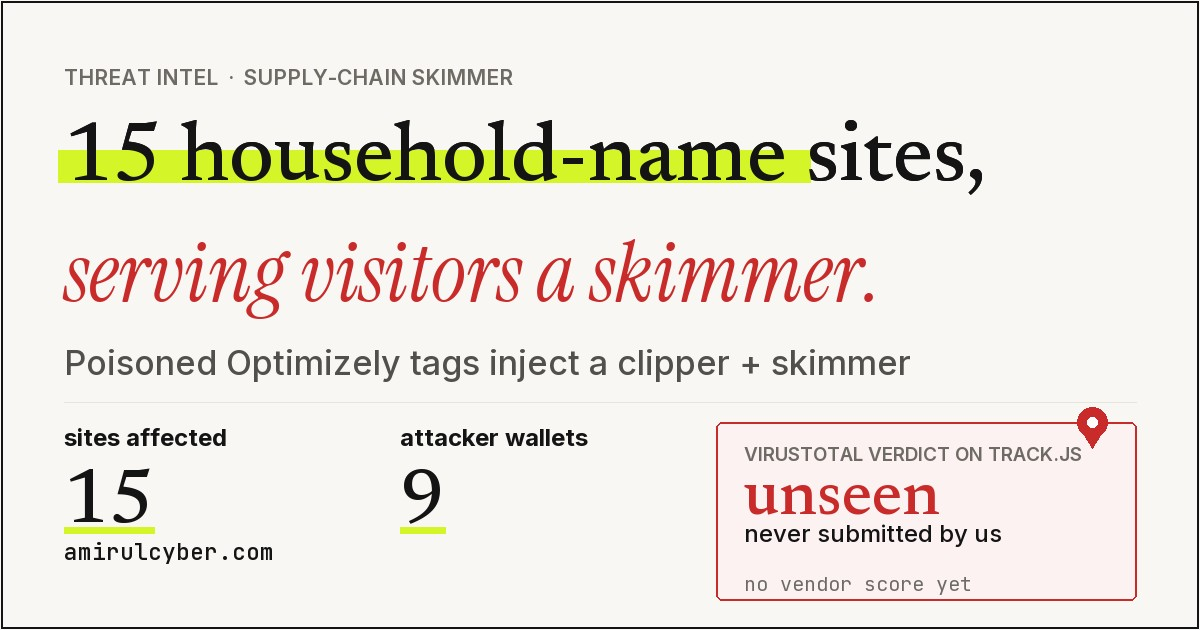
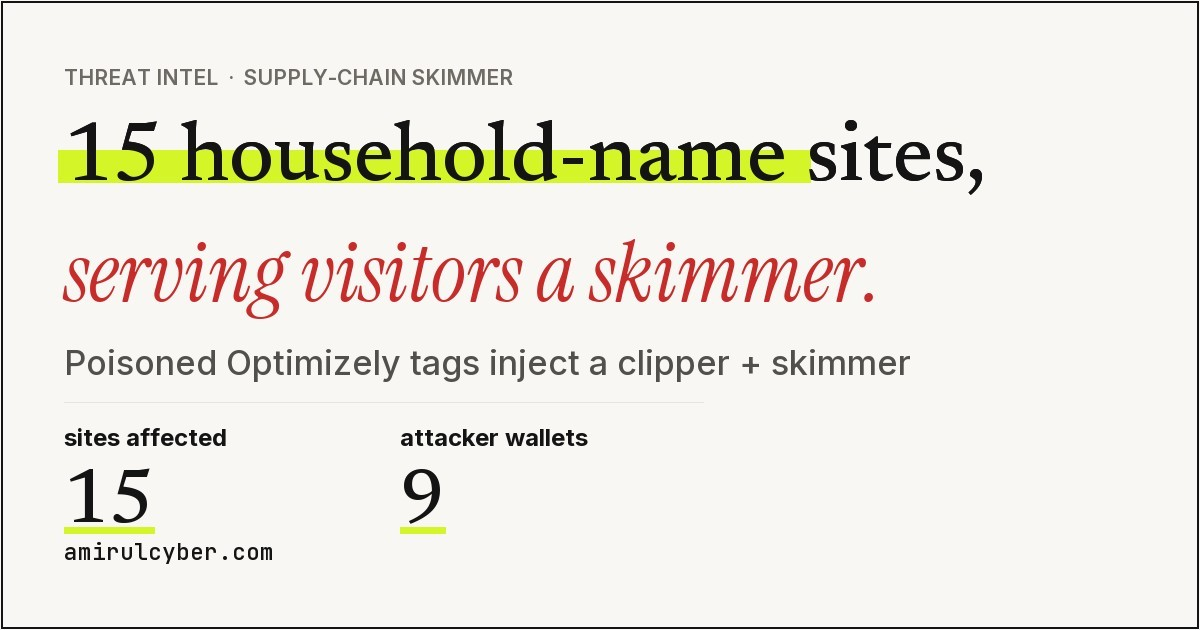
OPTIMJACK post: clickbait filename, hijacker-JS column, VT-free hero card

Changed region(s): [[0.6167, 0.6333, 0.9558, 0.8746], [0.6167, 0.9048, 0.9558, 0.9651]]

diff --git a/_posts/2026-11-16-cnn-zoom-fox-news-crypto-skimmer-optimjack.md b/_posts/2026-11-16-cnn-zoom-fox-news-crypto-skimmer-optimjack.md
@@ -77,25 +77,25 @@ TONr 0:2033556a49942224b486e70fa8beeaeae4265dc4b10adffec2326c002d30397b
 
 15 captured page loads, sorted by traffic. First column is the page domain as observed; second column is the exact page URL that loaded the payload:
 
-| Domain | Exact page URL that loads the payload | Payload URL |
+| Domain | Exact page URL that loads the payload | Hijacker JS URL |
 |---|---|---|
-| edition.cnn.com | `https://edition.cnn.com/` | `https://1688360.cc/track.js` |
-| zoom.com | `https://www.zoom.com/` | `https://1688360.cc/track.js` |
-| foxnews.com | `https://www.foxnews.com/` | `https://1688360.cc/track.js` |
-| bbc.com | `https://www.bbc.com/news/articles/c6wy9lynq4qno` | `https://1688360.cc/track.js` |
-| salesforce.com | `https://www.salesforce.com/` | `https://1688360.cc/track.js` |
-| about.gitlab.com | `https://about.gitlab.com/whats-new/19-0/` | `https://1688360.cc/track.js` |
-| ae.com | `https://www.ae.com/us/en` | `https://1688360.cc/track.js` |
-| hootsuite.com | `https://www.hootsuite.com/error/lost-owly` | `https://1688360.cc/track.js` |
-| smartsheet.com | `https://www.smartsheet.com/` | `https://1688360.cc/track.js` |
-| wwws.airfrance.it | `https://wwws.airfrance.it/` | `https://1688360.cc/track.js` |
-| virginmediao2.co.uk | `https://www.virginmediao2.co.uk/help/identity` | `https://1688360.cc/track.js` |
-| stamps.com | `https://www.stamps.com/` | `https://1688360.cc/track.js` |
-| tricentis.com | `https://www.tricentis.com/` | `https://1688360.cc/track.js` |
-| mutualofomaha.com | `https://www.mutualofomaha.com/promo/medicare-supplement-insurance/456245-1` | `https://1688360.cc/track.js` |
-| insurance.hsbc.com.sg | `https://www.insurance.hsbc.com.sg/` | `https://1688360.cc/track.js?cb=1794847691583` |
+| edition.cnn.com | `https://edition.cnn.com/` | `https://cdn.optimizely.com/public/125375509/s/landingprod.js` |
+| zoom.com | `https://www.zoom.com/` | `https://cdn.optimizely.com/js/6395285578973184.js` |
+| foxnews.com | `https://www.foxnews.com/` | `https://cdn.confiant-integrations.net/gptprebidnative/202611121858/wrap.js` |
+| bbc.com | `https://www.bbc.com/news/articles/c6wy9lynq4qno` | `https://cdn.optimizely.com/public/4621041136/s/bbcx_prod.js` |
+| salesforce.com | `https://www.salesforce.com/` | `https://cdn.optimizely.com/js/22444972181.js` |
+| about.gitlab.com | `https://about.gitlab.com/whats-new/19-0/` | `https://cdn.optimizely.com/js/5113954737848320.js` |
+| ae.com | `https://www.ae.com/us/en` | `https://www.ae.com/resources/aa2a454dda92a6d073ca760a2537f00c14d00114d3583` |
+| hootsuite.com | `https://www.hootsuite.com/error/lost-owly` | `https://cdn.optimizely.com/js/4894383279964160.js` |
+| smartsheet.com | `https://www.smartsheet.com/` | `https://cdn.optimizely.com/js/752092193.js` |
+| wwws.airfrance.it | `https://wwws.airfrance.it/` | `https://jef1nimjiav4.eu.wpi.jscrambler.com/i0sqmdlgtfda/1588655105.js` |
+| virginmediao2.co.uk | `https://www.virginmediao2.co.uk/help/identity` | `https://cdn.optimizely.com/js/22914960707.js` |
+| stamps.com | `https://www.stamps.com/` | `https://cdn.optimizely.com/js/23755770403.js` |
+| tricentis.com | `https://www.tricentis.com/` | `https://cdn.optimizely.com/js/26508490611.js` |
+| mutualofomaha.com | `https://www.mutualofomaha.com/promo/medicare-supplement-insurance/456245-1` | `https://cdn.optimizely.com/js/25010540072.js` |
+| insurance.hsbc.com.sg | `https://www.insurance.hsbc.com.sg/` | `https://cdn.optimizely.com/js/20371380974.js` |
 
-Per-row caller evidence (which script issued the stealer request): Optimizely bundles on every row except foxnews.com (ad wrapper), ae.com (first-party bundle) and wwws.airfrance.it (Jscrambler-protected script).
+Per-row caller evidence lives in the third column: Optimizely bundles on every row except foxnews.com (ad wrapper), ae.com (first-party bundle) and wwws.airfrance.it (Jscrambler-protected script).
 
 {% include figure.html src="/assets/img/figure2-optimjack.jpg" alt="urlscan transaction list for zoom.com showing the primary request, redirect chain, the Optimizely bundle, and the OneTrust consent stub" caption="Figure 2. Zoom's transaction list: primary request, redirect chain, the Optimizely bundle — with the OneTrust stub alongside, gating but not sanitising it." width="1127" height="1280" %}
 
